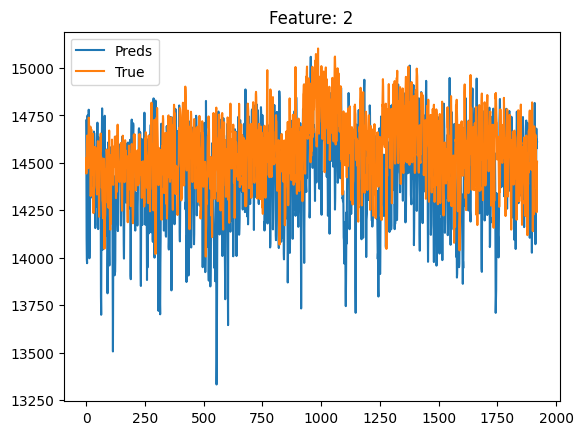
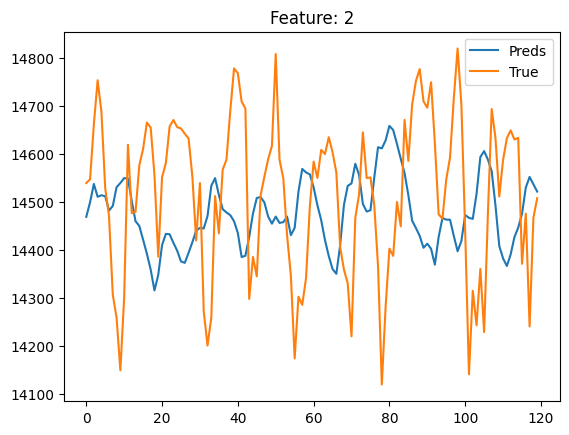
plot fix

diff --git a/train.py b/train.py
@@ -35,8 +35,8 @@ def predict(model, loader, scaler, plot_name=''):
 			preds.extend(y_hat.detach().cpu().numpy().squeeze())
 			true_y.extend(y.detach().cpu().squeeze().numpy())
 
-	preds = np.array(preds)[-120:]
-	true_y = np.array(true_y)[-120:]
+	preds = np.array(preds)[-75:]
+	true_y = np.array(true_y)[-75:]
 	#with torch.no_grad():
 	#	preds = model(x).detach().cpu().numpy().squeeze()
 
